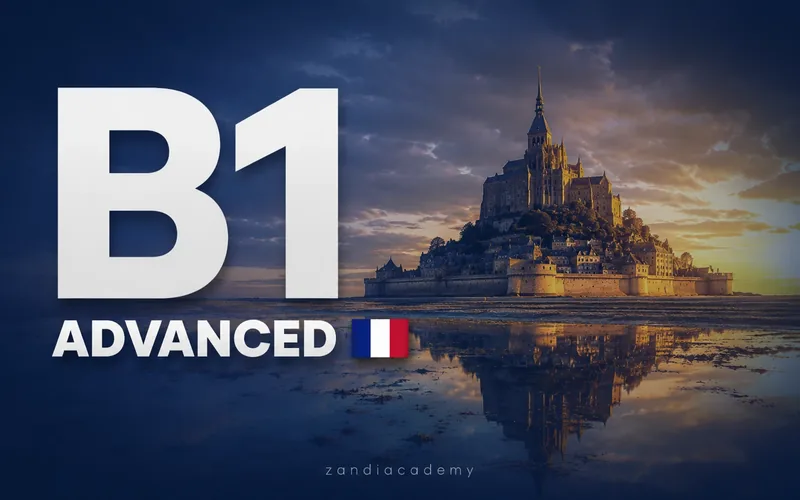
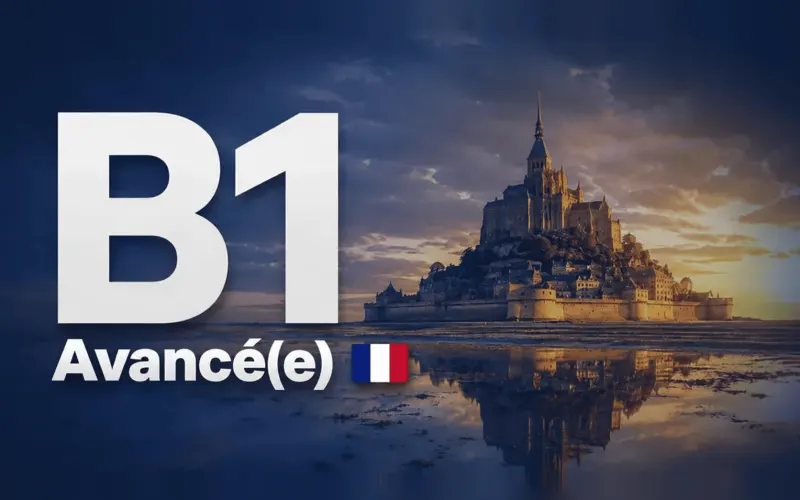
Replace the course covers with the owner's French ones
«Débutant(e)», «Intermédiaire», «Avancé(e)» — her new A1, A2 and B1 covers,
written over the old files at all three sizes, so every place that draws a
cover (homepage cards, /courses/, the placement result, the shop loop, og:image)
picks them up with no template change.

They did not arrive at 16:10. A2 and B1 are 16:9 and A1 is 1.57, and
`.thumb img` is object-fit: cover in a 16/10 box, so the browser would have cut
83px off each side of the 16:9 pair — and A2's «A» and «Intermédiaire» start
75px from the edge. So each was extended to exactly 16:10 rather than cropped,
on the edge measured quietest: A2 and B1 gained 52 rows top and bottom (keeping
the type vertically where she put it), A1 gained 27 columns on the left, whose
mean variation is 1.05 against 16.3 on the sunset side. Each pad crossfades from
the real edge colour at the seam to a horizontally blurred copy further out, so
a textured edge like A2's street does not streak. Every pixel she made is in the
file.

800x500, 600x375 and 400x250 WebP at quality 78: 142 KB for all nine against
180 KB before, and every individual file is smaller than the one it replaces.
q78 is the knee — q84 costs about 30% more for a small gain. A1 is now a true
800x500; the old one was 800x512 under an <img> that declares 500.

zandi_course_cover() is now versioned by mtime. It returned the bare URL while
the srcset beside it was already versioned, so swapping the art under the same
[…]

diff --git a/inc/content.php b/inc/content.php
@@ -502,7 +502,19 @@ function zandi_course_cover( $slug ) {
 		return '';
 	}
 
-	return apply_filters( 'zandi_course_cover', get_theme_file_uri( $file ), $slug );
+	/*
+	 * Versioned by mtime, like every other asset. This returned the bare URL
+	 * until 26 September 2026, while the srcset beside it was already
+	 * versioned — so the day the owner's French covers replaced the old ones
+	 * under the same filenames, every browser, LiteSpeed and the CDN would
+	 * have kept serving the old `src`, and so would og:image in every link
+	 * preview. A page showing the old picture at one width and the new one at
+	 * another is exactly the half-applied deploy CLAUDE.md warns about.
+	 * The guard is for the test stub, which does not load functions.php.
+	 */
+	$url = function_exists( 'zandi_asset_uri' ) ? zandi_asset_uri( $file ) : get_theme_file_uri( $file );
+
+	return apply_filters( 'zandi_course_cover', $url, $slug );
 }
 
 /**

diff --git a/CLAUDE.md b/CLAUDE.md
@@ -885,8 +885,19 @@ not leading with the landmark as decoration, the way every other language school
 does; it is not a reason to recompose her photograph. **Do not crop images the
 owner supplies.** She frames them; the layout adapts.
 
-Course covers in `assets/images/course-{slug}.webp` are hers too, already
-rendered at 16:10 — the ratio `.thumb` reserves — so they drop in whole.
+Course covers in `assets/images/course-{slug}.webp` are hers too, at 16:10 —
+the ratio `.thumb` reserves — so they drop in whole. **The French covers
+(«Débutant(e)», «Intermédiaire», «Avancé(e)», 26 September 2026) arrived at
+16:9 and 1.57, not 16:10, and were extended, not cropped.** `.thumb img` is
+`object-fit: cover`, so a 16:9 file would have lost 83px a side in CSS — and
+A2's type starts 75px from the edge. Each was widened on its quietest edge
+(measured, not guessed): A2 and B1 gained 52 rows top and bottom, A1 27 columns
+on the left, each pad crossfading from the real edge colour at the seam to a
+blurred version further out so a textured edge does not streak. Every pixel she
+made is in the file. Do the same the next time a cover arrives at another ratio,
+and keep all three sizes (800, 600, 400) at 800×500's ratio — the `<img>`
+declares `width="800" height="500"`. `zandi_course_cover()` is mtime-versioned
+since that swap; it was the one image URL on the site that was not.
 
 ---
 
